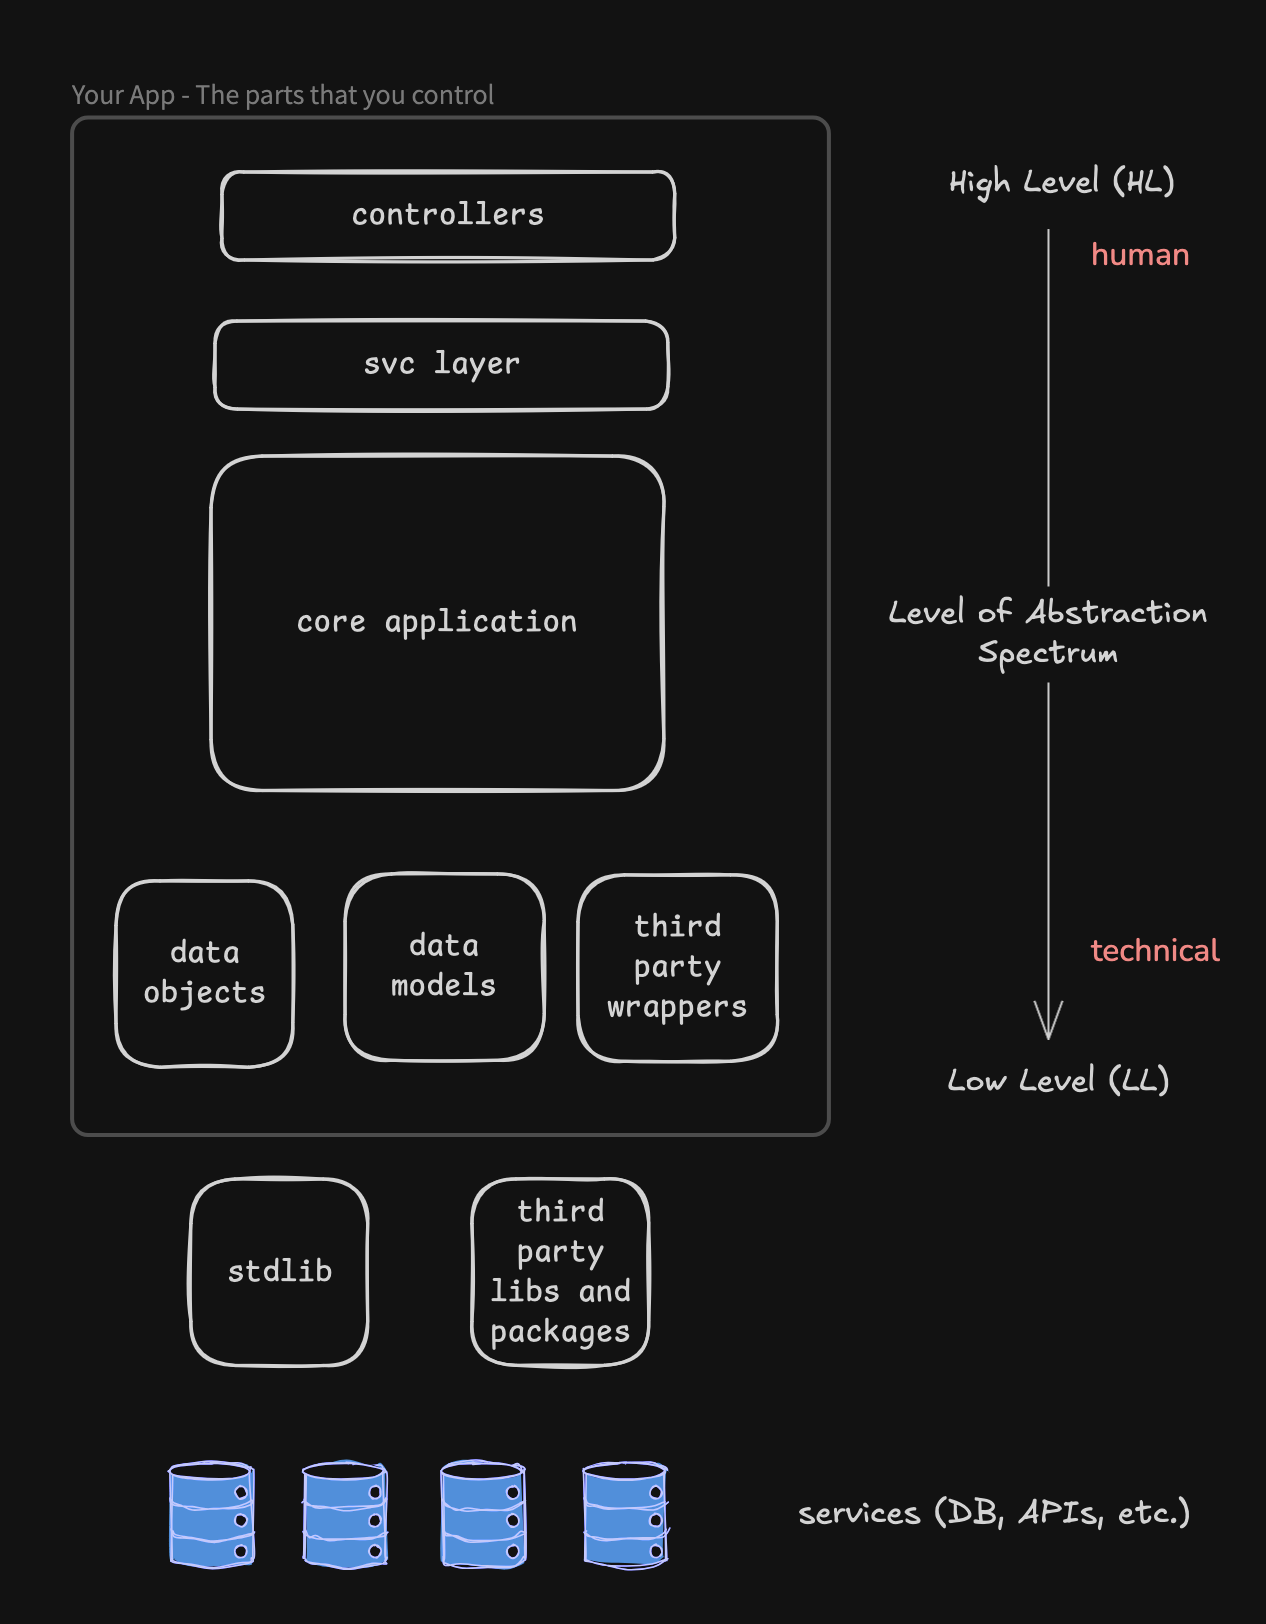
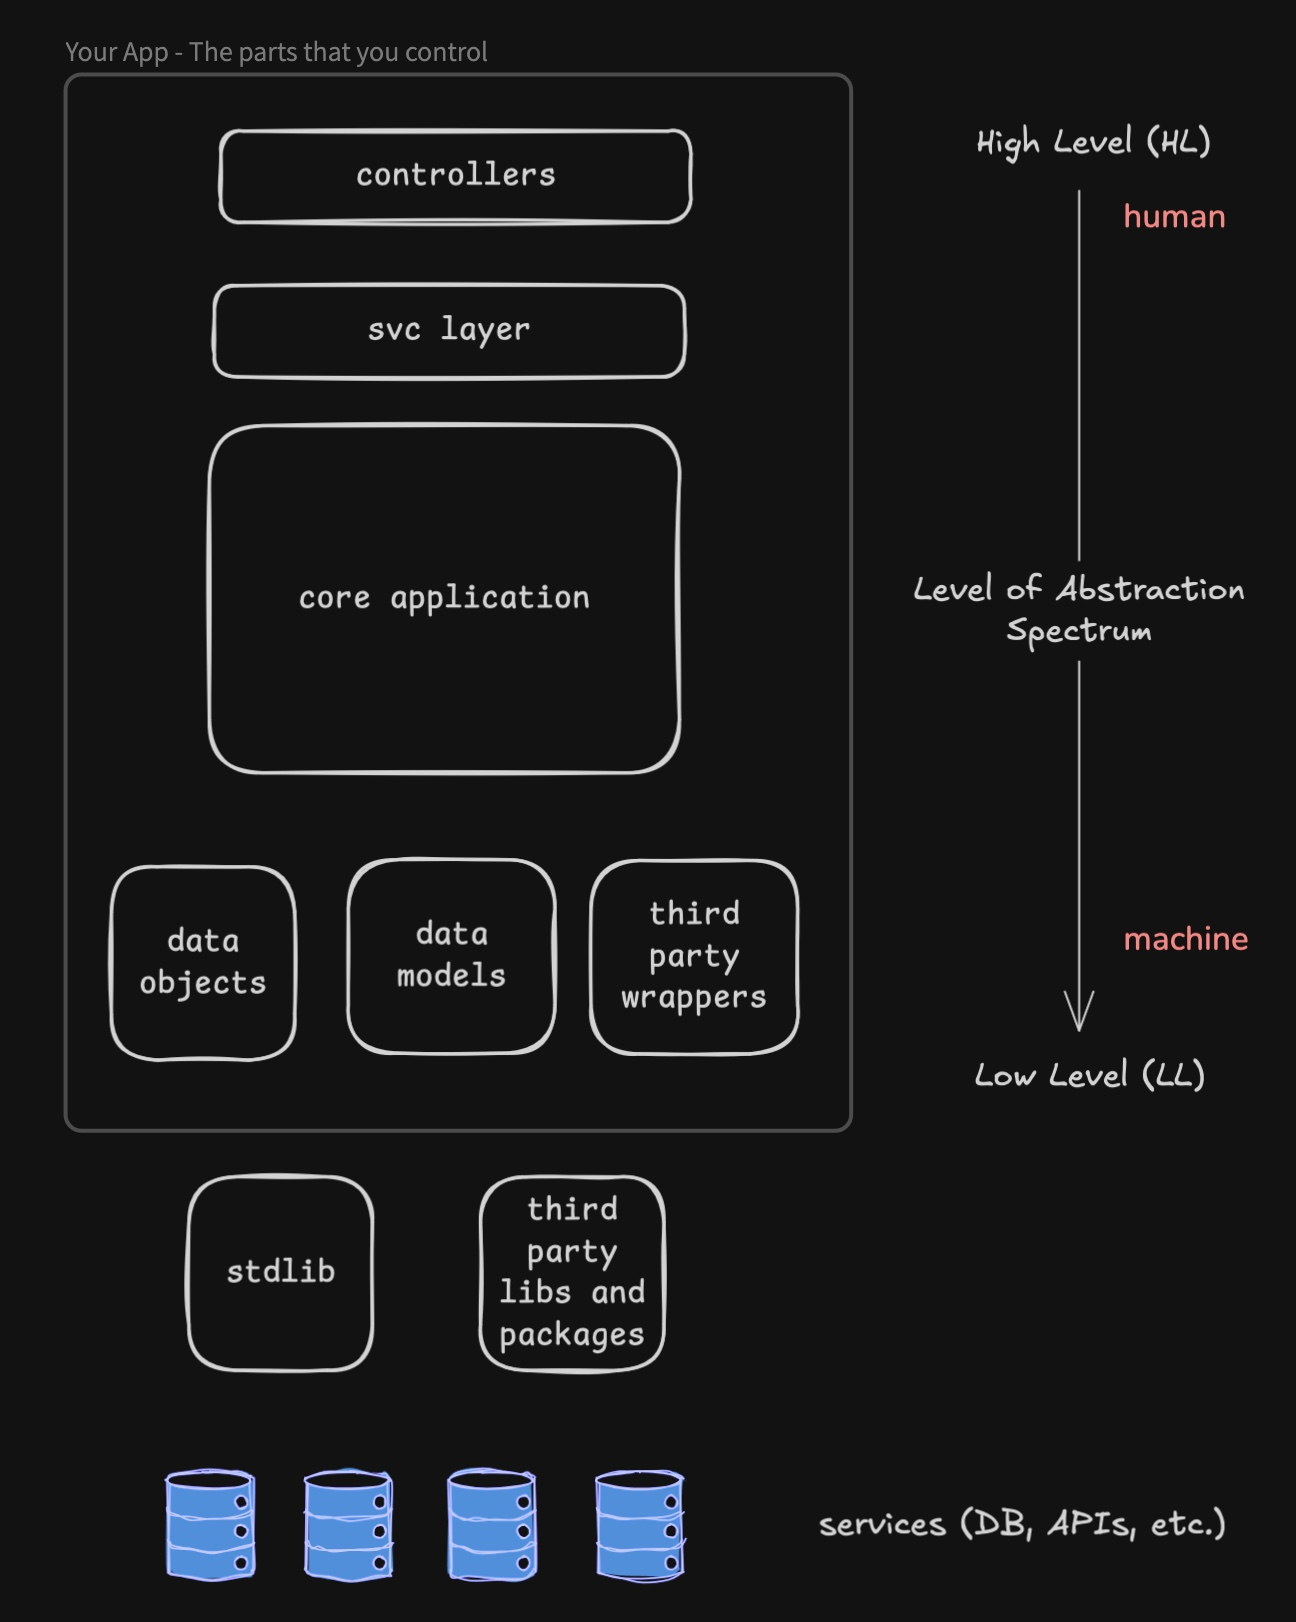
new stuff

diff --git a/catalog/prime-small-fns.md b/catalog/prime-small-fns.md
@@ -88,4 +88,39 @@ A well defined data structure is a work of art.
 <!-- A lot of people are hesitant to name and introduce new concepts into an app. -->
 
 
+# Encapsulation
+
+- Encapsulation, specifically Isolation aka Information Hiding
+    - Classes shouldn't expose, or give direct access to, internal state
+    (instance variables)
+    - Interacting with and manipulating state happens via methods
+    - Interface over implementation
+
+Encapsulation is super important.
+
+One of the arguments against small functions is that jumping from function to
+function sucks.  It does, people aren't wrong.
+
+However, if you have good encapsulation, you can have small methods and not
+need to jump around.
+
+Let me explain.
+
+Regardless of what language you use to build software, it has a standard
+library.
+
+For common things that aren't in the standard library, there are well-known
+libraries that fill in the gaps.
+
+When you need more info, you go to the api docs, right?
+
+What do the api docs show you?
+
+Interfaces aka method signatures.  A lot of times, they will also show you the
+code for any methods, but how often have you actually looked at the code?
+
+For most people, the answer is never, unless they were curious.
+
+
+
 
